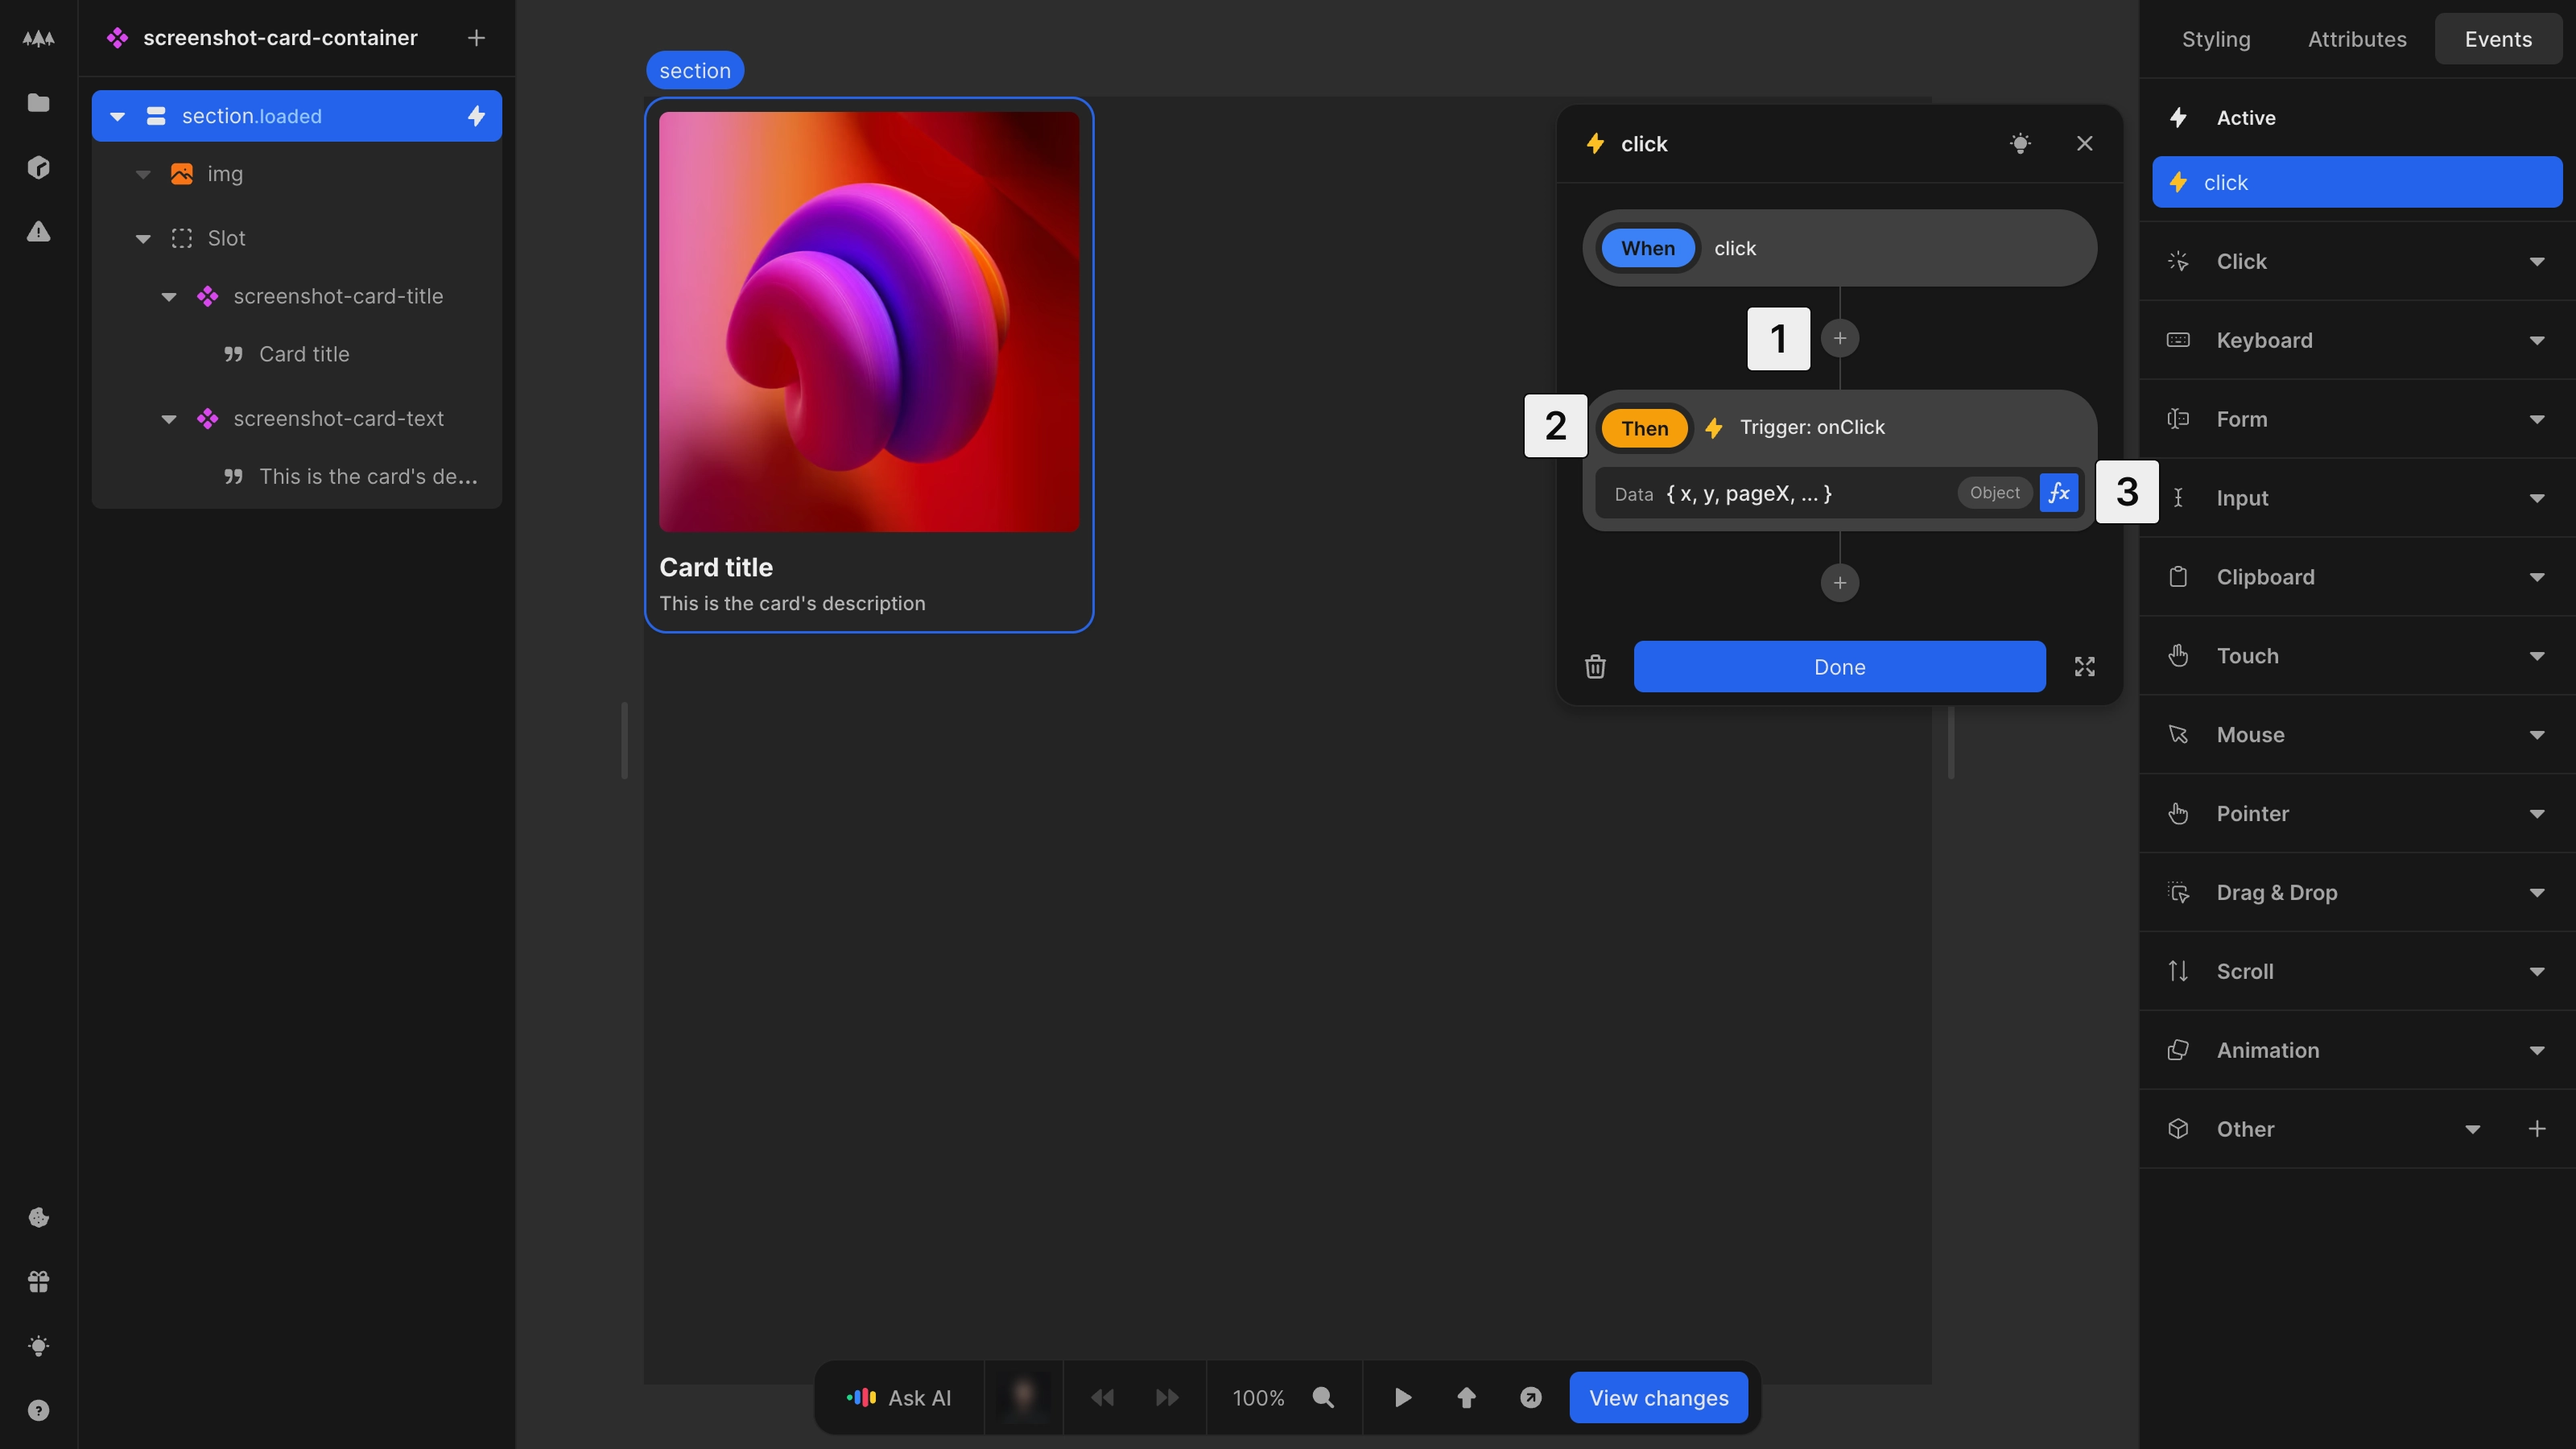
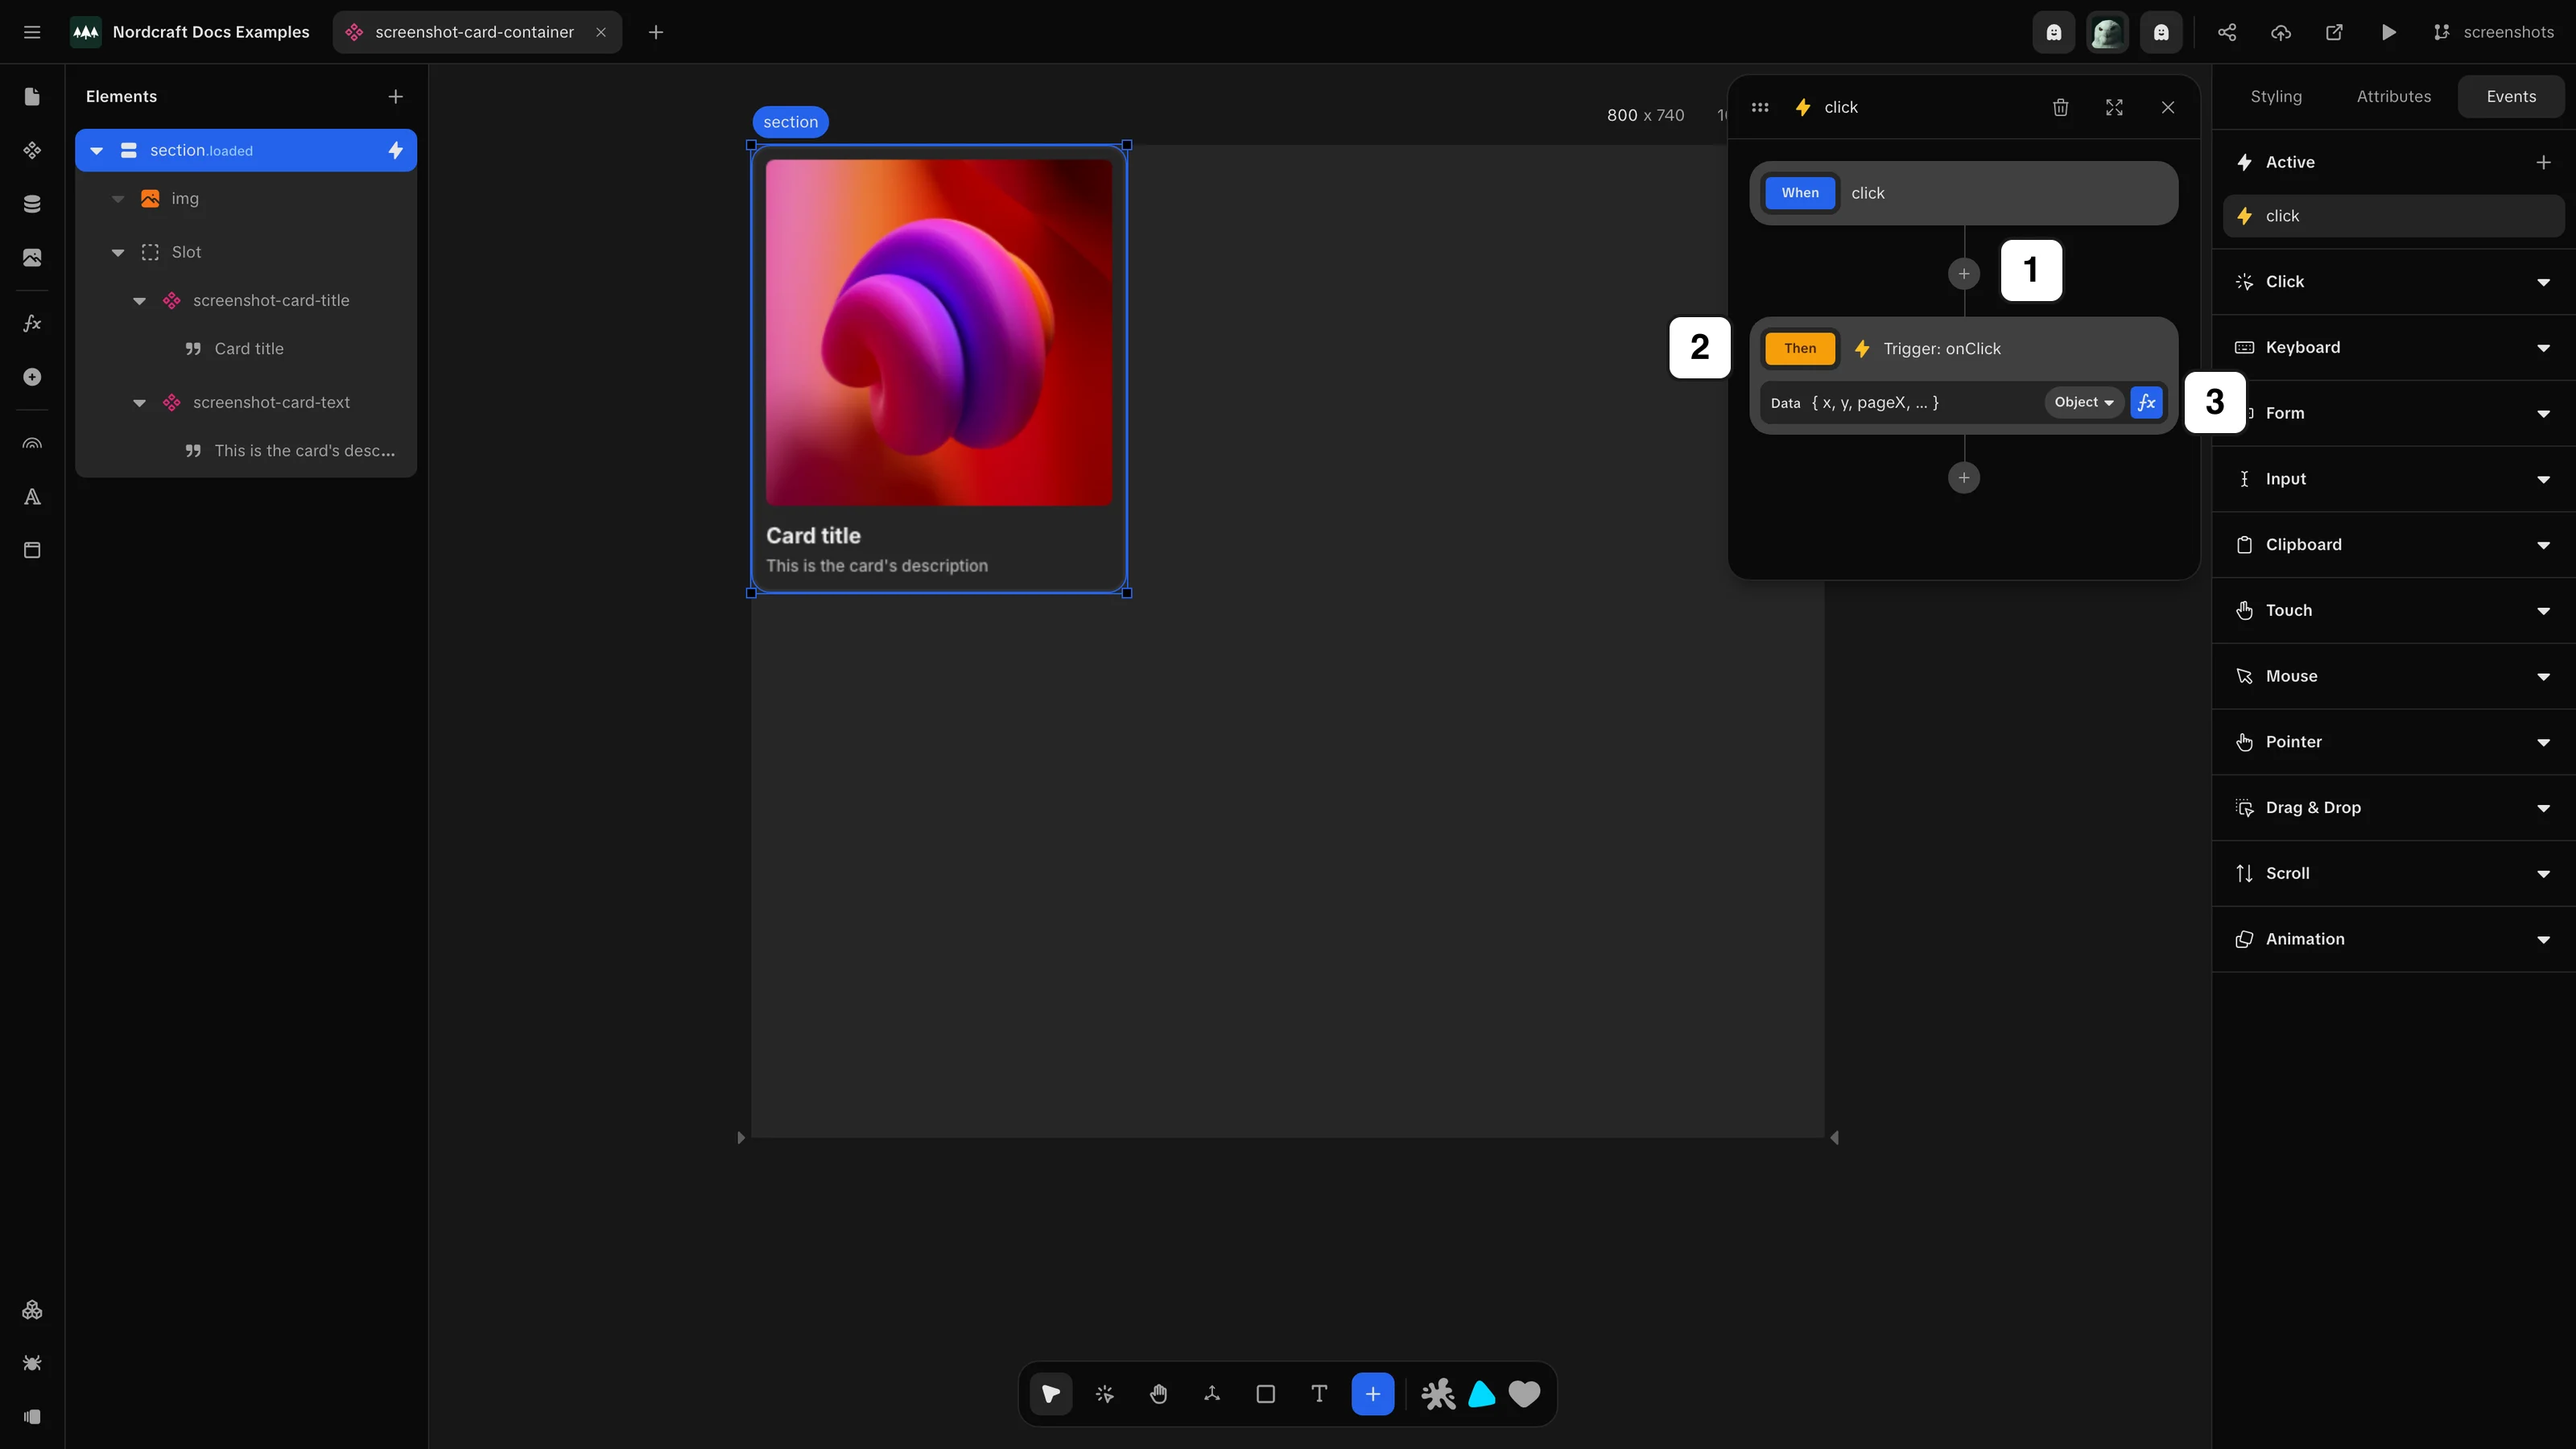
More

diff --git a/docs/components/interface-and-lifecycle/set-up-an-event.screenshot.ts b/docs/components/interface-and-lifecycle/set-up-an-event.screenshot.ts
@@ -1,0 +1,39 @@
+import { defineScreenshot } from '@/scripts/capture-screenshots'
+import type { Page } from 'playwright'
+
+// Placeholder script for set-up-an-event.webp
+export default defineScreenshot({
+  path: '/projects/docs_examples/branches/screenshots/components/screenshot-card-container?mode=design&canvas-tool=select&canvas-width=800&selection=events.0&rightpanel=style',
+  description: 'Set up an event',
+  setup: async (page: Page) => {
+    await page.waitForTimeout(500)
+    await page.getByRole('button', { name: 'onClick' }).click()
+    await page.waitForTimeout(200)
+  },
+  annotations: [
+    {
+      type: 'text',
+      x: 546,
+      y: 56,
+      text: '1. View data panel'
+    },
+    {
+      type: 'badge',
+      x: 761,
+      y: 160,
+      text: '2'
+    },
+    {
+      type: 'badge',
+      x: 734,
+      y: 176,
+      text: '3'
+    },
+    {
+      type: 'badge',
+      x: 654,
+      y: 223,
+      text: '4'
+    }
+  ],
+})

diff --git a/docs/components/interface-and-lifecycle/trigger-an-event.screenshot.ts b/docs/components/interface-and-lifecycle/trigger-an-event.screenshot.ts
@@ -1,0 +1,32 @@
+import { defineScreenshot } from '@/scripts/capture-screenshots'
+import type { Page } from 'playwright'
+
+// Placeholder script for trigger-an-event.webp
+// TODO: Review path, setup, and annotations to regenerate
+export default defineScreenshot({
+  path: '/projects/docs_examples/branches/screenshots/components/screenshot-card-container?mode=design&canvas-tool=select&canvas-width=800&selection=nodes.root.events.click.actions.0&rightpanel=events',
+  description: 'Trigger an event',
+  setup: async (page: Page) => {
+    await page.waitForTimeout(300)
+  },
+  annotations: [
+    {
+      type: 'badge',
+      x: 621,
+      y: 74,
+      text: '1',
+    },
+    {
+      type: 'badge',
+      x: 518,
+      y: 98,
+      text: '2',
+    },
+    {
+      type: 'badge',
+      x: 678,
+      y: 115,
+      text: '3',
+    },
+  ],
+})
